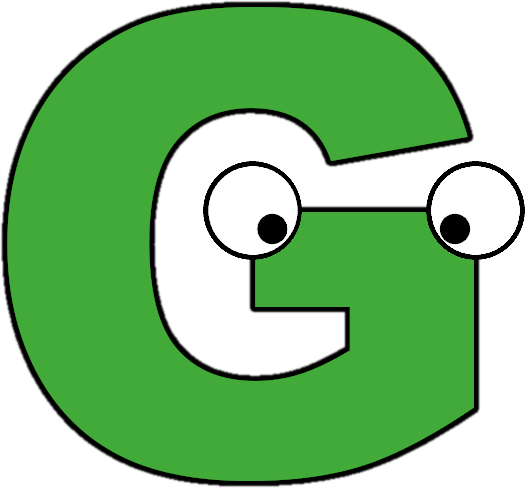
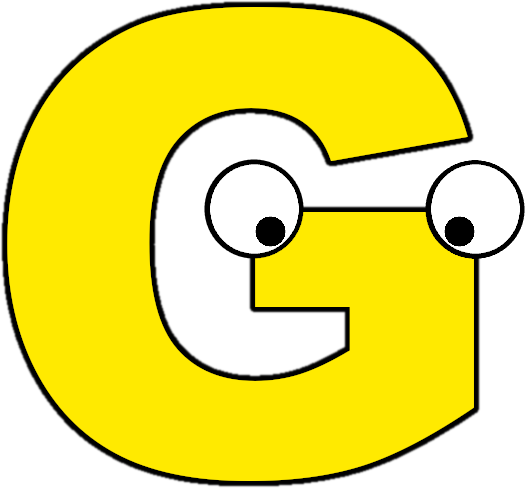
update to main game file; switched colors of Y and G; added curtain picture

diff --git a/game2monsters.html b/game2monsters.html
@@ -21,6 +21,7 @@ body {
   -ms-user-select: none;
   user-select: none;
   scroll-behavior: smooth;
+  overflow: hidden;
 }
 
 #characterCursor {
@@ -312,6 +313,33 @@ display: inline-block;
   margin-bottom: 5vh;
 }
 
+#fullScreenVocabPic {
+  cursor: default;
+  display: block;
+  position: absolute;
+  width: 100vw;
+  height: 100vh;
+  left: 0vw;
+  top: 100vh;
+  /* text-align: center;
+  font-family: "Georgia","Wide Latin";
+  font-weight: bold; */
+  /* color: #F00;
+  font-size: 5vw; */
+
+  animation-name: fullScreenVocabPicGoUp;
+  animation-play-state: paused;
+  animation-iteration-count: infinite;
+  animation-duration: 1.2s;
+  animation-fill-mode: forwards;
+  animation-timing-function: linear;
+}
+
+@keyframes fullScreenVocabPicGoUp {
+  0%    {top: 100vh;}
+  100%  {top: 0vh;}
+}
+
 #gameOverScreen {
   background-color: #90D8FF;
   font-size: 15vw;
@@ -418,6 +446,10 @@ window.onload = function() {
 
   var happyHippoGifPos = document.getElementById("happyHippoGif").getBoundingClientRect();
   document.getElementById("happyHippoGif").style.left = (bodyDimensions.width-happyHippoGifPos.width)/2 + "px";
+
+  fullScreenVocabPic.addEventListener('animationend', () => {
+    document.getElementById("fullScreenVocabPic").style.animationPlayState = "paused";
+  });
 
 
 }     ///////////////////// END OF window.onload FUNCTION /////////////////////////////////////////////////
@@ -638,24 +670,33 @@ function checkIfCompletingWord() {
   if (userHzPos >= 0.173 && userHzPos <= 0.188 && userVtPos < 87.1 && userVtPos > 86.9) {
     if (letterOfCursor == "A") {
       //alert("Good job!");
-      curtainDrop();
+      showVocabPicFullScreen(letterOfCursor);
       showLetterACorrect();
     }
   } else if (userHzPos >= 0.618 && userHzPos <= 0.632 && userVtPos < 76.1 && userVtPos > 75.9) {
     if (letterOfCursor == "G") {
-      alert("Good job!");
+      showVocabPicFullScreen(letterOfCursor);
+      showLetterACorrect();
     }
   } else if (userHzPos >= 0.81 && userHzPos <= 0.832 && userVtPos < 46.1 && userVtPos > 45.9) {
     if (letterOfCursor == "J") {
-      alert("Good job!");
+      showVocabPicFullScreen(letterOfCursor);
+      showLetterACorrect();
     }
   } else if (userHzPos >= 0.72 && userHzPos <= 0.738 && userVtPos < 125.1 && userVtPos > 124.9) {
     if (letterOfCursor == "N") {
-      alert("Good job!");
+      showVocabPicFullScreen(letterOfCursor);
+      showLetterACorrect();
     }
   } else if (userHzPos >= 0.735 && userHzPos <= 0.757 && userVtPos < 168.1 && userVtPos > 167.9) {
     if (letterOfCursor == "P") {
-      alert("Good job!");
+      showVocabPicFullScreen(letterOfCursor);
+      showLetterACorrect();
+    }
+  } else if (userHzPos >= 0.193 && userHzPos <= 0.207 && userVtPos < 131.1 && userVtPos > 130.9) {
+    if (letterOfCursor == "U") {
+      showVocabPicFullScreen(letterOfCursor);
+      showLetterACorrect();
     }
   }
 }
@@ -710,9 +751,31 @@ function onCloudPet() {
   return false;
 }
 
+function showVocabPicFullScreen(letterOfCursor) {
+  switch (letterOfCursor) {
+    case "A":
+      document.getElementById("fullScreenVocabPic").src = "images/planet.jpg";
+      break;
+    case "G":
+      document.getElementById("fullScreenVocabPic").src = "images/green.png";
+      break;
+    case "J":
+      document.getElementById("fullScreenVocabPic").src = "images/jet.jpg";
+      break;
+    case "N":
+      document.getElementById("fullScreenVocabPic").src = "images/net.jpg";
+      break;
+  }
+  document.getElementById("fullScreenVocabPic").style.animationPlayState = "running";
+}
+
+function getRidOfFullScreenVocabPic(imgElement) {
+
+}
+
 </script>
 
-<body onmousedown=startJump()>
+<body onmousedown="startJump()">
   <!-- normally 3.2, a good test value for seeing more is 5 -->
 
 <audio id="boingSound">
@@ -759,6 +822,8 @@ function onCloudPet() {
 <img id="hippoStartGif" src="images/startingPic.gif" onclick="startingHippoGoUp()">
 SPELL&nbsp;&nbsp;&nbsp;&nbsp;IT!
 </div>
+
+<img id="fullScreenVocabPic" src="x.png" onclick="getRidOfFullScreenVocabPic(this)">
 
 <div id="gameOverScreen">
   GOOD JOB!
